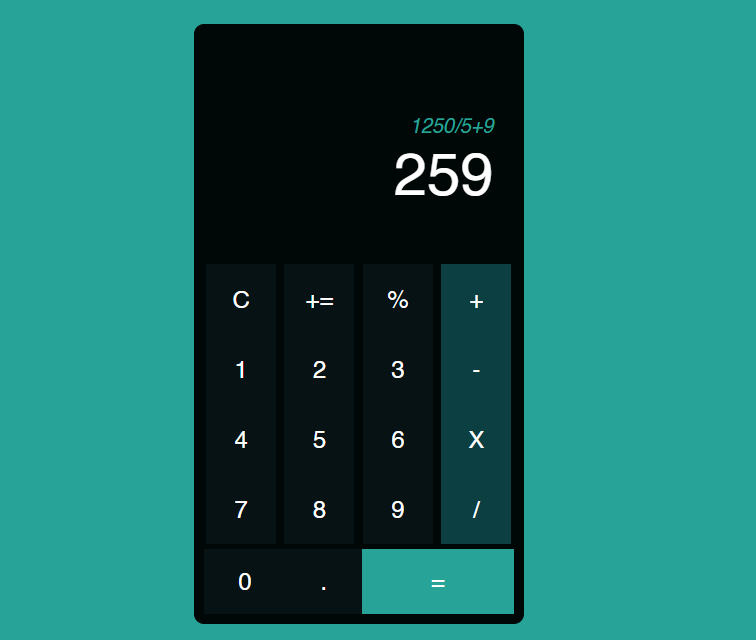
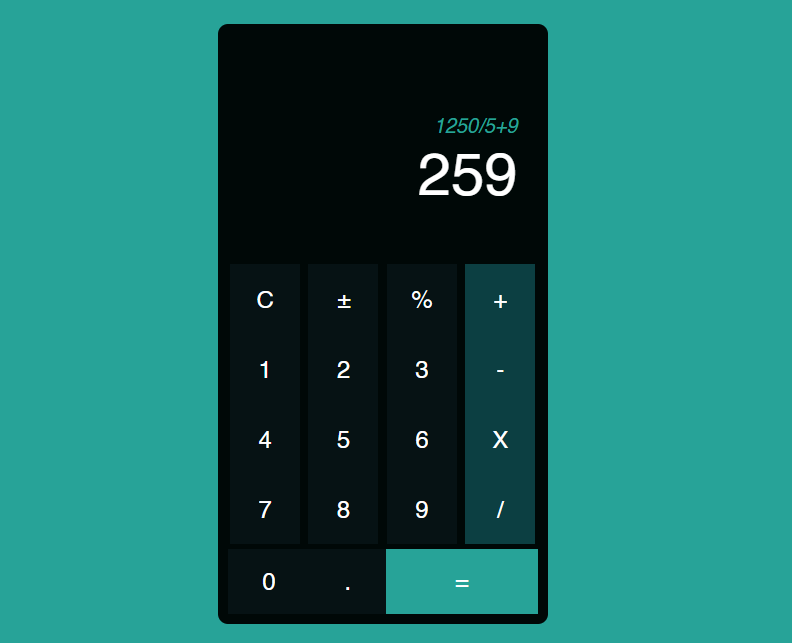
fix: change wrong symbol

diff --git a/index.html b/index.html
@@ -20,7 +20,7 @@
         <div class="number">
           <div>
             <button>C</button>
-            <button>+=</button>
+            <button>±</button>
             <button>%</button>
             <button>+</button>
           </div>
